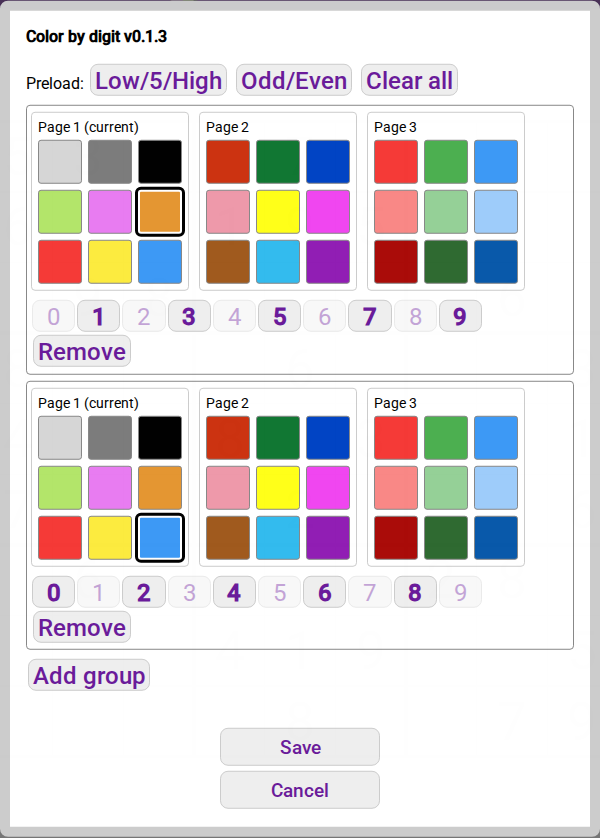
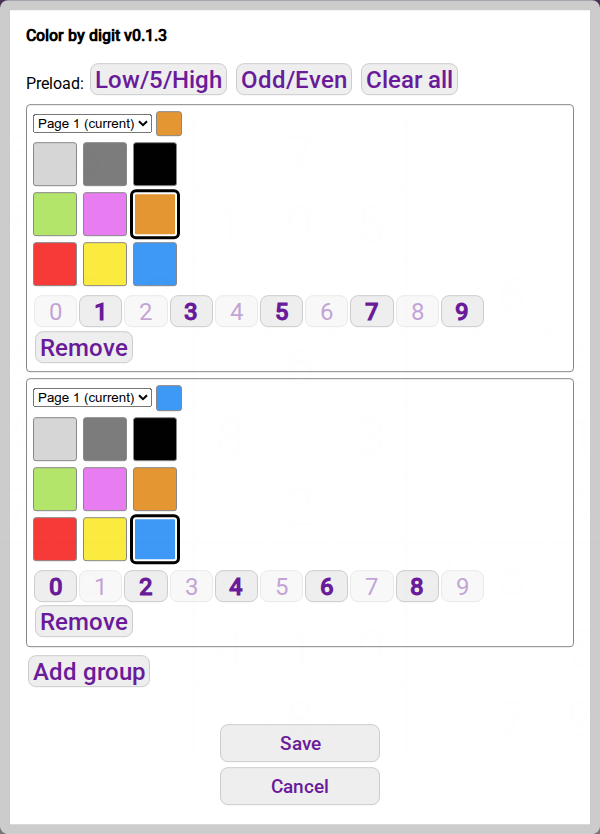
Color by Digit: each group shows one palette page at a time, with a pulldown (#31)
Closes #31

diff --git a/color-by-digit.user.js b/color-by-digit.user.js
@@ -165,35 +165,59 @@
       (selected ? 'border:2px solid #fff;outline:3px solid #000' : 'border:1px solid #888') + '"></button>'
   }
 
-  function renderPage (page, groupIndex, selectedKey) {
-    const grid = 'display:grid;gap:6px;grid-template-columns:repeat(' + PAGE_COLUMNS + ',' + SWATCH_SIZE + ')'
-    const swatches = (slots) => slots.map((s) => renderSwatch(s, groupIndex, selectedKey)).join('')
-    const zero = page.zero ? `<div style="${grid};margin-top:4px">${renderSwatch(page.zero, groupIndex, selectedKey)}</div>` : ''
-    return `<div data-page="${page.page}" style="flex:none;margin:2px 10px 8px 0;padding:6px;border:1px solid #ccc;border-radius:4px">` +
-      `<div style="font-size:0.85em;margin-bottom:5px">Page ${page.page + 1}${page.current ? ' (current)' : ''}</div>` +
-      `<div style="${grid}">${swatches(page.rows.flat())}</div>${zero}</div>`
+  const pageLabel = (page) => `Page ${page.page + 1}${page.current ? ' (current)' : ''}`
+
+  // The page a group opens on: the page that holds its color, the current page first when the
+  // color is on several; the current page when no page holds it, and the first with none current.
+  function initialPage (pages, key) {
+    const holds = (p) => [p.zero, ...p.rows.flat()].some((slot) => slot && slot.key === key)
+    const found = pages.find((p) => p.current && holds(p)) || pages.find(holds) || pages.find((p) => p.current)
+    return found ? found.page : 0
   }
 
-  function renderEditor (groups, pages) {
+  // The group's color as a small square, so it shows while another page is open; dashed when
+  // no page has a visible color for the key.
+  function renderChosen (colors, key) {
+    const color = colors.find((c) => c.key === key)
+    const look = color ? `background:${esc(color.value)};border:1px solid #888` : 'border:1px dashed #888'
+    return `<span data-role="chosen" title="${esc(key)}" style="display:inline-block;box-sizing:border-box;width:1.6em;height:1.6em;` +
+      `border-radius:3px;vertical-align:middle;${look}"></span>`
+  }
+
+  // One group's page pulldown, its chosen color, and the shown page as a 3 by 3 grid with index 0 below.
+  function renderPalette (pages, colors, groupIndex, key, shownPage) {
+    if (pages.length === 0) return ''
+    const page = pages[shownPage] || pages[0]
+    const options = pages.map((p) => `<option value="${p.page}"${p === page ? ' selected' : ''}>${pageLabel(p)}</option>`).join('')
+    const grid = 'display:grid;gap:6px;grid-template-columns:repeat(' + PAGE_COLUMNS + ',' + SWATCH_SIZE + ')'
+    const swatches = page.rows.flat().map((slot) => renderSwatch(slot, groupIndex, key)).join('')
+    const zero = page.zero ? `<div style="${grid};margin-top:6px">${renderSwatch(page.zero, groupIndex, key)}</div>` : ''
+    return '<div style="margin-bottom:6px">' +
+      `<select data-act="page" data-group="${groupIndex}" aria-label="Palette page" style="font-size:1em;padding:2px">${options}</select> ${renderChosen(colors, key)}</div>` +
+      `<div style="${grid}">${swatches}</div>${zero}`
+  }
+
+  // `shown[i]` is the page index group i shows.
+  function renderEditor (groups, pages, shown) {
+    const colors = layoutColors(pages)
     const rows = groups.map((g, i) => {
-      const swatches = pages.map((p) => renderPage(p, i, g.key)).join('')
       const digits = DIGITS.map((d) =>
         `<button type="button" data-act="digit" data-group="${i}" data-digit="${d}" ` +
         `style="width:1.8em;margin:1px;font-weight:${g.digits.includes(d) ? 'bold' : 'normal'};` +
         `opacity:${g.digits.includes(d) ? 1 : 0.4}">${d}</button>`).join('')
-      return '<div style="margin:6px 0;padding:4px;border:1px solid #888;border-radius:4px">' +
-        `<div style="display:flex;flex-wrap:wrap;align-items:flex-start">${swatches}</div><div>${digits} ` +
+      return '<div style="margin:6px 0;padding:6px;border:1px solid #888;border-radius:4px">' +
+        `${renderPalette(pages, colors, i, g.key, shown[i])}<div style="margin-top:8px">${digits} ` +
         `<button type="button" data-act="remove" data-group="${i}">Remove</button></div></div>`
     }).join('')
     const preloads = Object.keys(PRELOADS)
       .map((n) => `<button type="button" data-act="preload" data-name="${esc(n)}">${esc(n)}</button>`).join(' ')
-    const note = layoutColors(pages).length === 0 ? '<div style="margin:6px 0">No palette colors found: groups cannot be added.</div>' : ''
+    const note = colors.length === 0 ? '<div style="margin:6px 0">No palette colors found: groups cannot be added.</div>' : ''
     return `<div>Preload: ${preloads} <button type="button" data-act="clear">Clear all</button></div>${note}${rows || '<div style="margin:6px 0">No groups.</div>'}` +
       '<button type="button" data-act="add">Add group</button>'
   }
 
   if (typeof module !== 'undefined' && module.exports) {
-    module.exports = { VERSION, installButton, planColoring, assignDigit, normalizeGroups, groupsFromStored, isVisibleColor, layoutPages, layoutColors, renderEditor, PRELOADS, DEFAULT_GROUPS }
+    module.exports = { VERSION, installButton, planColoring, assignDigit, normalizeGroups, groupsFromStored, isVisibleColor, layoutPages, layoutColors, initialPage, renderEditor, PRELOADS, DEFAULT_GROUPS }
   }
   if (typeof Framework === 'undefined' || !Framework.getApp) return
 
@@ -253,8 +277,19 @@
     })
     const box = document.getElementById('color-by-digit-editor')
     if (!box) return
-    const draw = () => { box.innerHTML = renderEditor(groups, pages) }
+    // The page each group shows, by group index; a group not yet shown opens on its color's page.
+    let shown = []
+    const draw = () => {
+      groups.forEach((g, i) => { if (shown[i] === undefined) shown[i] = initialPage(pages, g.key) })
+      box.innerHTML = renderEditor(groups, pages, shown)
+    }
     draw()
+    box.addEventListener('change', (event) => {
+      const el = event.target.closest('select[data-act="page"]')
+      if (!el) return
+      shown[Number(el.dataset.group)] = Number(el.value)
+      draw()
+    })
     box.addEventListener('click', (event) => {
       const el = event.target.closest('button[data-act]')
       if (!el) return
@@ -264,9 +299,9 @@
       switch (el.dataset.act) {
         case 'color': groups = groups.map((g, j) => (j === i ? { key: el.dataset.key, digits: g.digits } : g)); break
         case 'digit': groups = assignDigit(groups, i, el.dataset.digit); break
-        case 'remove': groups = groups.filter((_, j) => j !== i); break
-        case 'clear': groups = []; break
-        case 'preload': groups = cloneGroups(PRELOADS[el.dataset.name]); break
+        case 'remove': groups = groups.filter((_, j) => j !== i); shown = shown.filter((_, j) => j !== i); break
+        case 'clear': groups = []; shown = []; break
+        case 'preload': groups = cloneGroups(PRELOADS[el.dataset.name]); shown = []; break
         case 'add': {
           const used = groups.map((g) => g.key)
           const free = colors.find((c) => !used.includes(c.key)) || colors[0]

diff --git a/color-by-digit.test.js b/color-by-digit.test.js
@@ -4,7 +4,7 @@ const assert = require('node:assert/strict')
 const fs = require('node:fs')
 const path = require('node:path')
 const { headerVersion } = require('./header-version.js')
-const { installButton, planColoring, assignDigit, normalizeGroups, groupsFromStored, isVisibleColor, layoutPages, layoutColors, renderEditor, PRELOADS, DEFAULT_GROUPS, VERSION } = require('./color-by-digit.user.js')
+const { installButton, planColoring, assignDigit, normalizeGroups, groupsFromStored, isVisibleColor, layoutPages, layoutColors, initialPage, renderEditor, PRELOADS, DEFAULT_GROUPS, VERSION } = require('./color-by-digit.user.js')
 
 const groups = [{ key: 'a', digits: ['1', '2'] }, { key: 'b', digits: ['3'] }]
 const plan = (cells, g = groups) => planColoring(cells, g)
@@ -205,40 +205,85 @@ test('layoutColors lists the visible colors page by page, index 0 first', () => 
 
 const count = (html, re) => (html.match(re) || []).length
 
-test('renderEditor labels each page, marks the current one, and keeps data-act and data-key on every swatch', () => {
-  const pages = layoutPages([keys('z a1 a2 a3 a4 a5 a6 a7 a8 a9'), keys('clear b1 b2 b3 b4 b5 b6 b7 b8 b9')], 1, colorOf)
-  const html = renderEditor([{ key: 'b2', digits: [] }], pages)
-  assert.equal(count(html, /Page 1(?! \()/g), 1)
-  assert.equal(count(html, /Page 2 \(current\)/g), 1)
-  assert.equal(count(html, /data-act="color"[^>]*data-key="z"/g), 1)
-  assert.equal(count(html, /data-act="color"/g), 19)
+const twoPages = () => layoutPages([keys('z a1 a2 a3 a4 a5 a6 a7 a8 a9'), keys('clear b1 b2 b3 b4 b5 b6 b7 b8 b9')], 1, colorOf)
+
+test('initialPage opens on the page that holds the key', () => {
+  assert.equal(initialPage(twoPages(), 'a4'), 0)
+  assert.equal(initialPage(twoPages(), 'b4'), 1)
+  assert.equal(initialPage(twoPages(), 'z'), 0)
+})
+
+test('initialPage tries the current page first when the key is on several pages', () => {
+  const pages = layoutPages([keys('clear a1 shared'), keys('clear b1 shared'), keys('clear c1 shared')], 1, colorOf)
+  assert.equal(initialPage(pages, 'shared'), 1)
+  const other = layoutPages([keys('clear a1 shared'), keys('clear b1'), keys('clear c1 shared')], 1, colorOf)
+  assert.equal(initialPage(other, 'shared'), 0)
+})
+
+test('initialPage opens on the current page when no page holds the key, and on the first page with none current', () => {
+  assert.equal(initialPage(twoPages(), 'nope'), 1)
+  assert.equal(initialPage(layoutPages([keys('clear a1'), keys('clear b1')], 5, colorOf), 'nope'), 0)
+  assert.equal(initialPage([], 'a'), 0)
+})
+
+const options = (html) => [...html.matchAll(/<option value="(\d+)"( selected)?>([^<]*)<\/option>/g)].map((m) => [m[1], Boolean(m[2]), m[3]])
+
+test('renderEditor gives each group a page pulldown labelled Page 1, Page 2 (current), with the shown page selected', () => {
+  const html = renderEditor([{ key: 'a2', digits: [] }], twoPages(), [0])
+  assert.deepEqual(options(html), [['0', true, 'Page 1'], ['1', false, 'Page 2 (current)']])
+  assert.equal(count(html, /<select data-act="page" data-group="0"/g), 1)
+})
+
+test('renderEditor draws only the shown page of a group, keeping data-act and data-key on every swatch', () => {
+  const first = renderEditor([{ key: 'a2', digits: [] }], twoPages(), [0])
+  assert.equal(count(first, /data-act="color"/g), 10)
+  assert.equal(count(first, /data-act="color"[^>]*data-key="z"/g), 1)
+  assert.equal(count(first, /data-key="b1"/g), 0)
+  const second = renderEditor([{ key: 'a2', digits: [] }], twoPages(), [1])
+  assert.equal(count(second, /data-act="color"/g), 9)
+  assert.equal(count(second, /data-key="b1"/g), 1)
+  assert.equal(count(second, /data-key="a1"/g), 0)
+})
+
+test('renderEditor shows each group on its own page', () => {
+  const html = renderEditor([{ key: 'a2', digits: [] }, { key: 'b2', digits: [] }], twoPages(), [0, 1])
+  assert.equal(count(html, /data-group="0"[^>]*data-key="a1"/g), 1)
+  assert.equal(count(html, /data-group="1"[^>]*data-key="b1"/g), 1)
+  assert.equal(count(html, /data-group="0"[^>]*data-key="b1"/g), 0)
+})
+
+test('renderEditor shows the group\'s color beside the pulldown even when its page is not shown', () => {
+  const html = renderEditor([{ key: 'b2', digits: [] }], twoPages(), [0])
+  assert.match(html, /data-role="chosen"[^>]*title="b2"[^>]*background:#b2/)
+  assert.equal(count(html, /aria-pressed="true"/g), 0)
 })
 
 test('renderEditor draws an empty slot as a spacer with no button, so nothing shifts', () => {
   const pages = layoutPages([keys('clear a1 clear a3 a4 a5 a6 a7 a8 a9')], 0, colorOf)
-  const html = renderEditor([{ key: 'a1', digits: [] }], pages)
+  const html = renderEditor([{ key: 'a1', digits: [] }], pages, [0])
   assert.equal(count(html, /data-act="color"/g), 8)
   assert.equal(count(html, /data-empty="slot"/g), 1)
 })
 
 test('renderEditor marks only the group\'s own color as selected', () => {
   const pages = layoutPages([keys('clear a1 a2 a3 a4 a5 a6 a7 a8 a9')], 0, colorOf)
-  const html = renderEditor([{ key: 'a2', digits: [] }], pages)
+  const html = renderEditor([{ key: 'a2', digits: [] }], pages, [0])
   assert.equal(count(html, /aria-pressed="true"/g), 1)
   assert.match(html, /data-key="a2"[^>]*aria-pressed="true"/)
 })
 
-test('renderEditor keeps the "No palette colors found" note when no page has a color', () => {
-  const html = renderEditor([], layoutPages([], 0, colorOf))
+test('renderEditor keeps the "No palette colors found" note, and draws no pulldown, when no page has a color', () => {
+  const html = renderEditor([], layoutPages([], 0, colorOf), [])
   assert.match(html, /No palette colors found/)
   assert.equal(count(html, /data-act="color"/g), 0)
-  assert.equal(count(renderEditor([], layoutPages([keys('a b')], 0, colorOf)), /No palette colors found/g), 0)
+  assert.equal(count(renderEditor([], layoutPages([keys('a b')], 0, colorOf), []), /No palette colors found/g), 0)
+  assert.equal(count(renderEditor([{ key: 'a', digits: [] }], layoutPages([], 0, colorOf), [0]), /<select/g), 0)
 })
 
 test('the Preload row lists only real presets, and a Clear all button sits beside it', () => {
   assert.deepEqual(Object.keys(PRELOADS), ['Low/5/High', 'Odd/Even'])
   assert.deepEqual(Object.keys(PRELOADS).filter((name) => PRELOADS[name].length === 0), [])
-  const html = renderEditor([], layoutPages([], 0, colorOf))
+  const html = renderEditor([], layoutPages([], 0, colorOf), [])
   assert.equal(count(html, /data-act="preload"/g), 2)
   assert.doesNotMatch(html, /data-name="Custom"/)
   assert.equal(count(html, /data-act="clear"[^>]*>Clear all</g), 1)

diff --git a/docs/research/sudokupad-color-tool.md b/docs/research/sudokupad-color-tool.md
@@ -299,4 +299,6 @@ Not run through Tampermonkey or on `crackingthecryptic.com`. Screenshots from
   buttons carry their own styles, and overflowed its page. A `44px` width and height gives 44x44
   at 1200 px wide. Removing `min-width: 0; min-height: 0` or `flex: none` from the swatch style
   changed nothing at that width in the live run, so neither is in the script.
-- At 1200 px wide the dialog holds three 3x3 pages per row; at 390 px it holds one.
+- Chris then ruled one page at a time per group: a `<select>` of the pages, labelled `Page 1`,
+  `Page 2 (current)` and so on, with a small swatch of the group's color beside it. At 390 px
+  one group is one 3x3 grid plus the digit buttons, where showing every page took a screen each.
